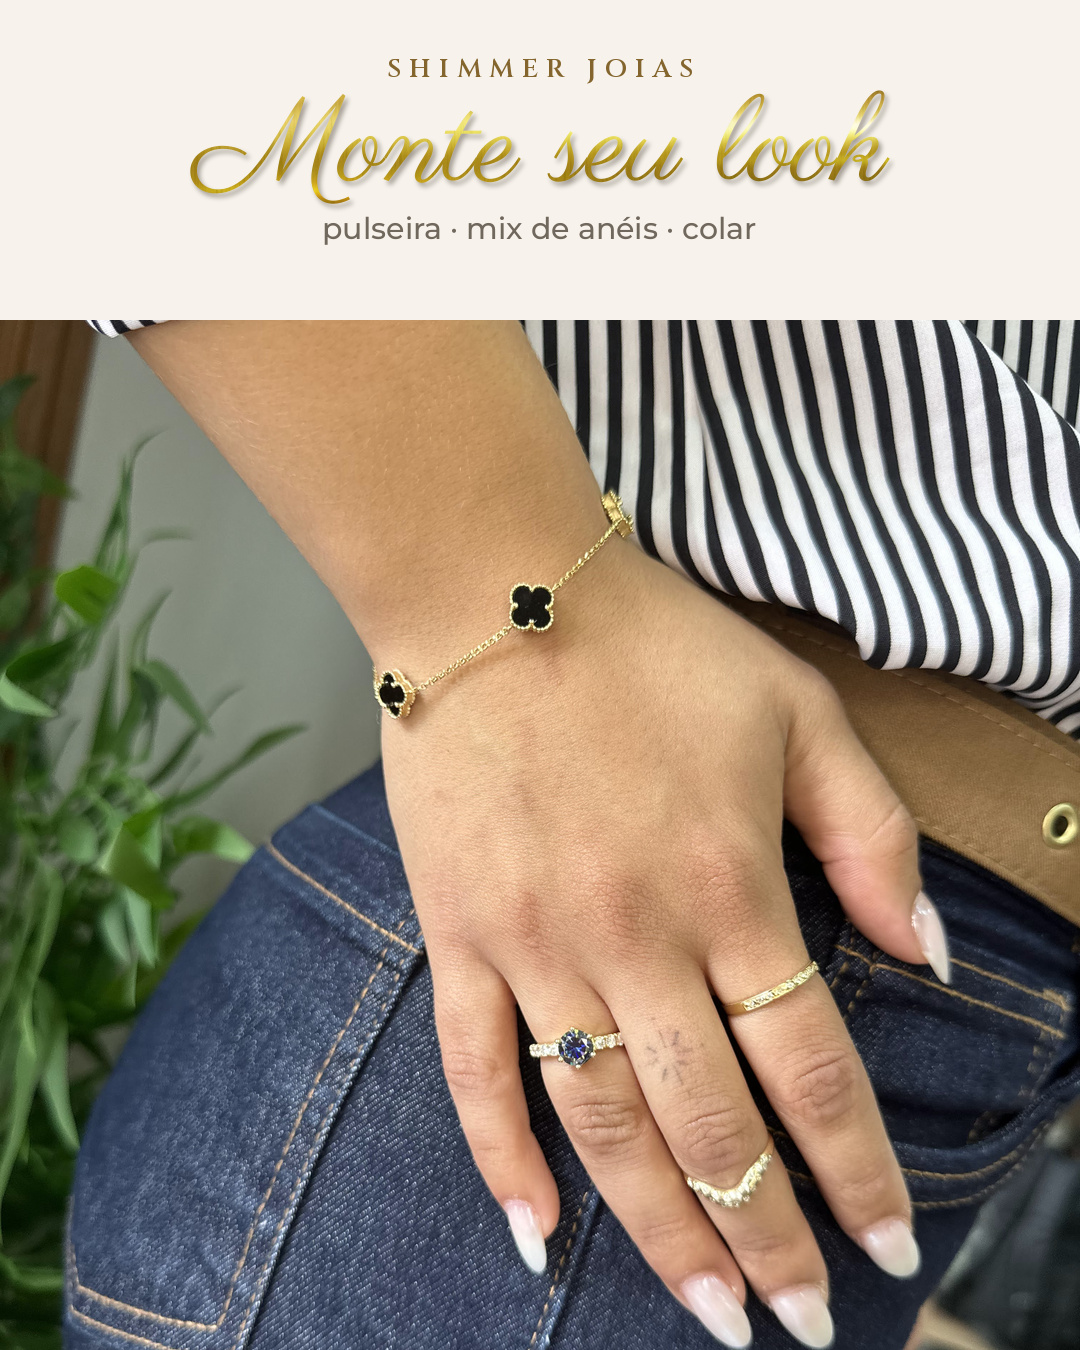
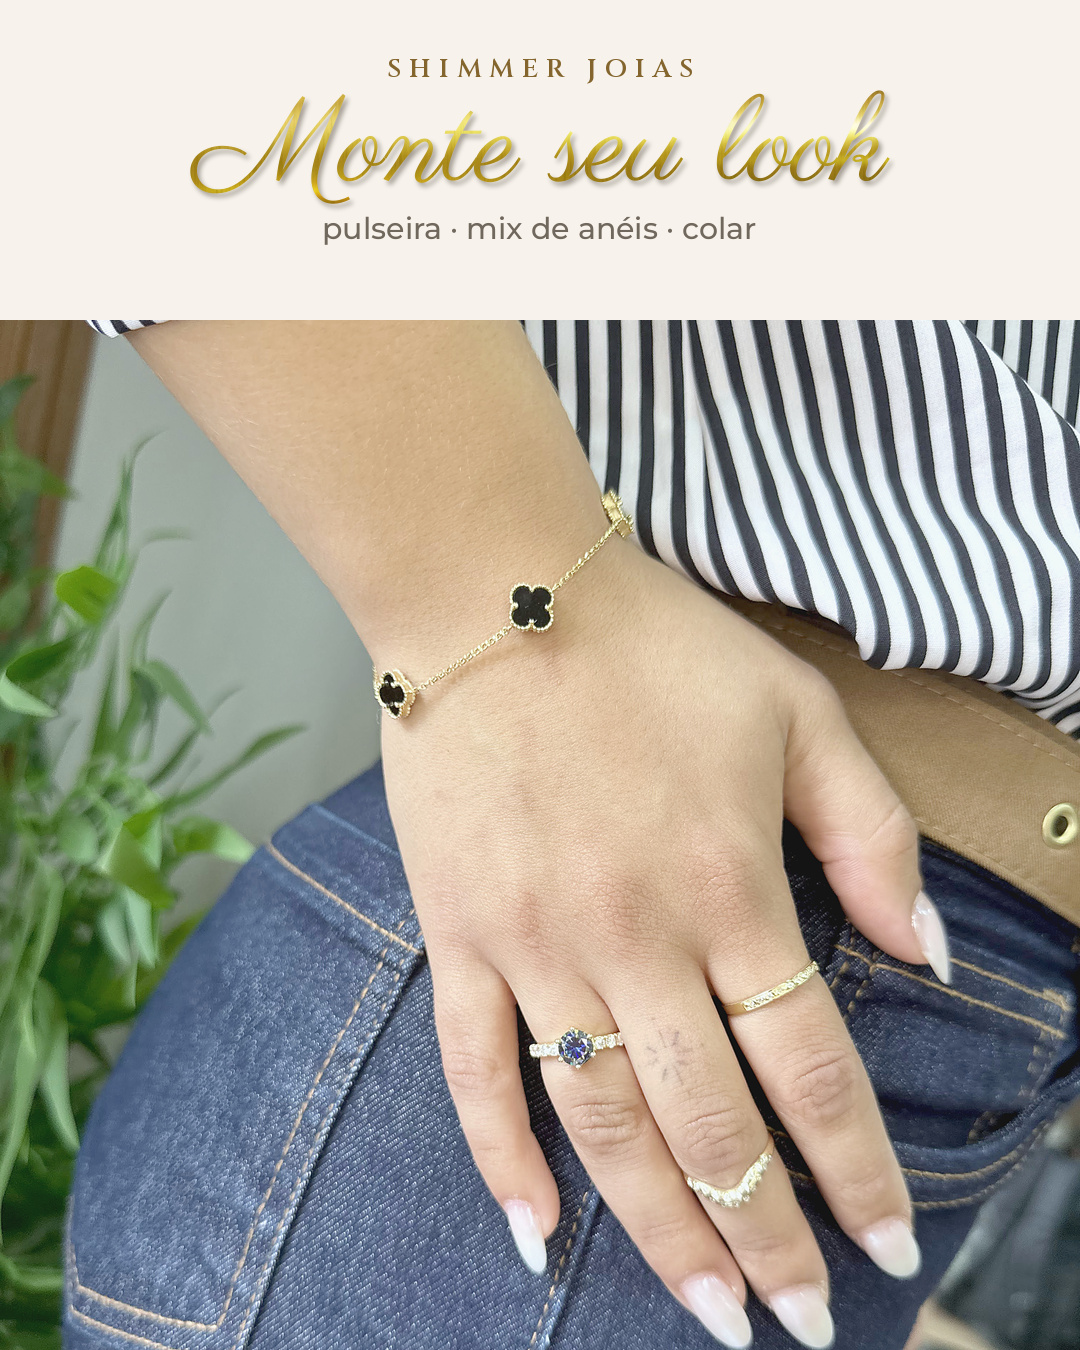
Preset Shimmer Clean: edição padrão das fotos + carrossel e stories refeitos
Claude-Session: https://claude.ai/code/session_01RLP9fKwVsDi588D8MrznBA

diff --git a/look/preset_shimmer.py b/look/preset_shimmer.py
@@ -1,0 +1,66 @@
+"""Preset "Shimmer Clean": the same correction for every photo so the feed looks like one brand.
+1. neutral white balance (gray-world on the mid-tones) + a touch of warmth, the same for all photos
+2. levels normalised to one target (black point, median, white point), so every photo has the same brightness
+3. soft S contrast curve
+4. vibrance that leaves skin tones alone
+5. fine sharpening, so metal and stones read crisp (no fake sparkle)
+"""
+import sys, glob, os
+import numpy as np
+from PIL import Image, ImageFilter
+
+TARGET = dict(black=20.0, mid=140.0, white=248.0)
+WARMTH = (1.035, 1.0, 0.95)          # same warmth for every photo
+
+
+def srgb_to_lin(x): return np.where(x <= 0.04045, x / 12.92, ((x + 0.055) / 1.055) ** 2.4)
+def lin_to_srgb(x): return np.where(x <= 0.0031308, x * 12.92, 1.055 * np.power(np.clip(x, 0, None), 1 / 2.4) - 0.055)
+
+
+def shimmer_clean(im):
+    a = np.asarray(im.convert('RGB'), np.float32) / 255.0
+    # 1. white balance on mid-tones only (ignores clipped whites and deep blacks)
+    lum = a.mean(2)
+    m = (lum > 0.2) & (lum < 0.85)
+    lin = srgb_to_lin(a)
+    means = lin[m].mean(0) if m.sum() > 1000 else lin.reshape(-1, 3).mean(0)
+    gains = means.mean() / means
+    gains = 1 + (gains - 1) * 0.5                      # 50% correction keeps the warmth of gold and skin
+    lin = lin * gains * np.array(WARMTH)
+    a = np.clip(lin_to_srgb(np.clip(lin, 0, 1)), 0, 1)
+    # 2. levels: black point, median, white point to the same target for every photo
+    L = a.mean(2) * 255
+    p_lo, p_mid, p_hi = np.percentile(L, [0.8, 50, 99.6])
+    p_lo = min(p_lo, 24.0)                             # bright photos keep their shadows (no darker skin)
+    p_hi = max(p_hi, 235.0)
+    x = np.clip((a * 255 - p_lo) / max(1, p_hi - p_lo), 0, 1)
+    mid_n = np.clip((p_mid - p_lo) / max(1, p_hi - p_lo), 0.05, 0.95)
+    tgt_n = (TARGET['mid'] - TARGET['black']) / (TARGET['white'] - TARGET['black'])
+    g = np.log(tgt_n) / np.log(mid_n)
+    g = float(np.clip(g, 0.6, 1.0))                     # brighten when needed, never darken a bright photo
+    x = x ** g
+    # 3. soft S curve
+    s = 0.08
+    x = x + s * x * (1 - x) * (x - 0.5) * 2
+    x = p_lo / 255 * 0 + TARGET['black'] / 255 * (p_lo < 24) + x * (TARGET['white'] - TARGET['black'] * (p_lo < 24)) / 255
+    # 4. vibrance, protecting skin (hue ~ orange)
+    mx, mn = x.max(2, keepdims=True), x.min(2, keepdims=True)
+    sat = (mx - mn) / (mx + 1e-6)
+    r, gg, b = x[..., :1], x[..., 1:2], x[..., 2:]
+    skin = ((r > gg) & (gg > b) & (sat > 0.15) & (sat < 0.6)).astype(np.float32)
+    amt = 0.18 * (1 - sat) * (1 - 0.8 * skin)
+    grey = x.mean(2, keepdims=True)
+    x = np.clip(grey + (x - grey) * (1 + amt), 0, 1)
+    out = Image.fromarray((x * 255 + 0.5).astype(np.uint8))
+    # 5. fine sharpening
+    return out.filter(ImageFilter.UnsharpMask(radius=2.2, percent=55, threshold=2))
+
+
+if __name__ == '__main__':
+    src, dst = sys.argv[1], sys.argv[2]
+    os.makedirs(dst, exist_ok=True)
+    files = sys.argv[3:] or sorted(glob.glob(src + '/*.jpg'))
+    for f in files:
+        f = f if os.path.isabs(f) else os.path.join(src, f)
+        shimmer_clean(Image.open(f)).save(os.path.join(dst, os.path.basename(f)), quality=95, subsampling=0)
+    print('ok', len(files))

diff --git a/look/look.py b/look/look.py
@@ -5,7 +5,7 @@ sys.path.insert(0, '/tmp/claude-0/-home-user-print/081c4020-c9a3-5394-8b04-d630e
 from shimmer_style import *
 from story_nativo_lib import emoji
 
-SRC = '/tmp/claude-0/-home-user/081c4020-c9a3-5394-8b04-d630e012eb6b/scratchpad/gp/full/'
+SRC = '/tmp/claude-0/-home-user/081c4020-c9a3-5394-8b04-d630e012eb6b/scratchpad/gp/edit/'  # photos after the Shimmer Clean preset
 D = '/home/user/print/look/'
 IV = (247, 243, 236); INK = (58, 45, 34); BR = (132, 101, 46); SOFT = (112, 103, 93)
 
